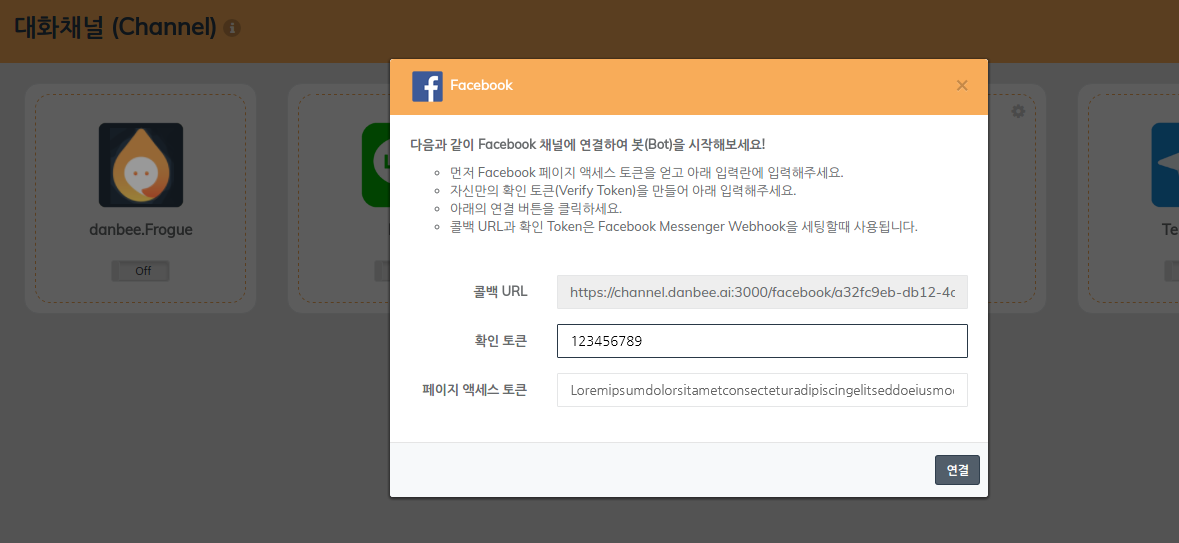
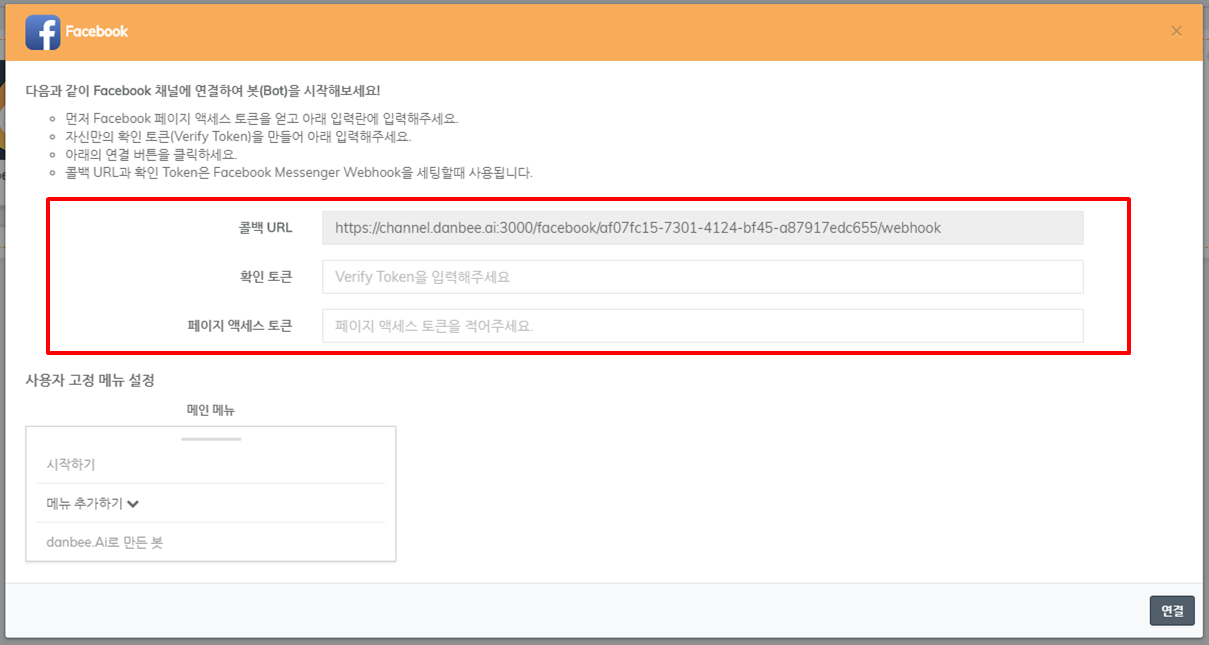
고정메뉴 doc

diff --git a/pages/danbeeDoc/channel_facebook.md b/pages/danbeeDoc/channel_facebook.md
@@ -60,3 +60,38 @@ Facebook 채널 연계 설정을 하려면 다음이 필요합니다.
 1. 챗봇을 테스트하기 위해서는 앱을 공개해야합니다. 공개를 위해 <span style="color:#f69023;">[Facebook for developers](https://developers.facebook.com/){:target="_blank"}</span> 페이지로 이동합니다.
 2. 왼쪽 메뉴에서 앱검수를 클릭하시고 앱을 공개 설정합니다. 앱 카테고리를 선택하라는 메시지가 표시됩니다. 목록에서 Messenger 용 앱 선택 후 확인 버튼을 클릭하십시오.<figure><img class="docimage" src="images/channel/facebook/facebook_dev_public.png" alt="facebook 공개 설정" style="max-width: 800px"></figure>
 3. 또한 페이지의 사용자 이름을 설정해야합니다. 챗봇 사용할 때 사용자가 채팅 할 챗봇 이름입니다. 챗봇 이름을 설정하려면 페이지의 프로필 사진과 제목 아래에있는 페이지 만들기 @사용자 이름 링크를 클릭하십시오 .
+
+## Facebook 고정메뉴
+{% include callout.html content="화면 위치 : [고급설정(Advanced)] > [채널 연결(Connect of Channel)]" type="default" %}
+
+danbee.Ai에서는 Facebook Messenger 하단 입력창 옆에 위치한 Facebook 고정메뉴 설정 기능을 제공하고 있습니다.
+
+### Facebook 고정메뉴 설정
+
+고정메뉴는 채널 연결시 뜨는 팝업 하단 사용자 고정 메뉴 설정 블락에서 설정하실 수 있습니다.
+
+#### 메인 메뉴
+메인 메뉴는 최대 3개까지 설정이 가능하나 **'시작하기'** 및 **'danbee.Ai로 만든 봇'** 메뉴는 변경할 수 없습니다.<br/>
+
+{% include image.html file="channel/facebook/facebook_menu_setting_01.png" max-width="900" caption="Facebook 메인 메뉴 설정" %} 
+
+메인 메뉴에서 설정 가능한 메뉴 종류는 선택지, Web Link, 챗플로우 호출, 서브메뉴가 존재합니다.
+
+| 메뉴 옵션 | 설명 | 
+|--------|-------|
+| 선택지 | 입력값을 호출합니다. |
+| Web Link | 팝업으로 호출할 Link 정보를 제공합니다. |
+| Chatflow호출 | 다른 Chatflow를 호출합니다. |
+| 서브메뉴 | 하위 메뉴를 설정합니다. |
+
+#### 서브 메뉴
+
+{% include image.html file="channel/facebook/facebook_menu_setting_02.png" max-width="900" caption="Facebook 서브 메뉴 설정" %} 
+
+메뉴 옵션에서 서브메뉴를 선택 시 'Edit Submenu'를 클릭하면 하위 메뉴를 설정할 수 있습니다. 서브 메뉴는 최대 2레벨, 각 레벨당 최대 5개의 메뉴를 지원합니다. 1레벨 서브 메뉴는 메인 메뉴와 동일한 옵션을 제공하며 2레벨 서브 메뉴는 서브메뉴 옵션을 제외한 나머지 옵션을 지원합니다.<br/>
+
+메뉴를 설정한 뒤 [연결]버튼을 누르면 해당 메뉴가 자동으로 Facebook Messanger에 세팅됩니다.
+
+{% include image.html file="channel/facebook/facebook_menu_setting_03.png" max-width="900" caption="Facebook Messenger 고정 메뉴 확인" %}
+
+{% include warning.html content="메뉴 적용 여부 확인 시 Facebook Messanger 대화창이 켜져있다면 나갔다 다시 접속해야 변경 사항을 확인할 수 있습니다." %}
